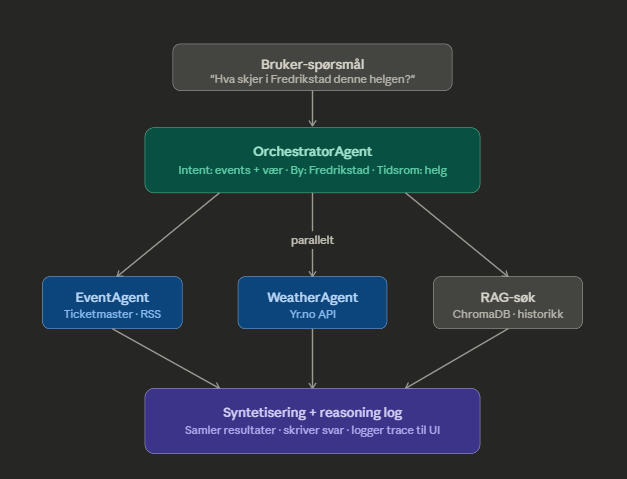
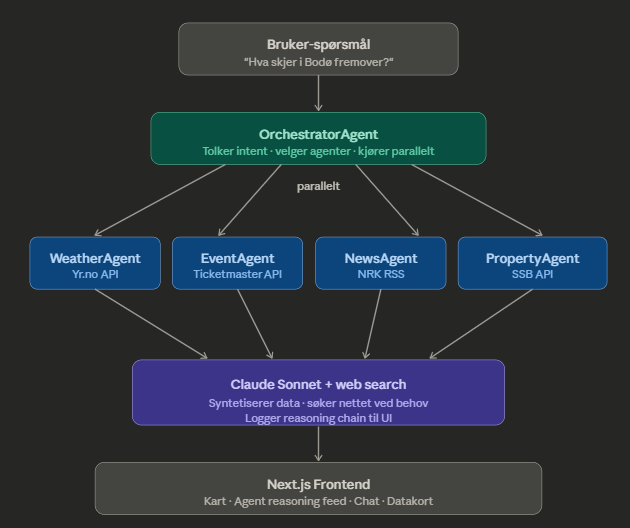
feat: all Norwegian cities, Norway map, Claude web search, security filter

diff --git a/frontend/app/page.tsx b/frontend/app/page.tsx
@@ -244,7 +244,7 @@ export default function Home() {
                       <a key={i} href={e.link} target="_blank" className="block group">
                         <div className="flex items-start gap-3">
                           <div className="w-10 text-center shrink-0">
-                            <div className="text-xs text-emerald-400 font-medium">{e.date?.slice(5)}</div>
+                            <div className="text-xs text-emerald-400 font-medium">{e.date?.slice(5).split('-').reverse().join('.')}</div>
                           </div>
                           <div>
                             <p className="text-sm text-white group-hover:text-emerald-400 transition-colors font-medium leading-snug">{e.title}</p>

diff --git a/backend/agents/orchestrator.py b/backend/agents/orchestrator.py
@@ -71,6 +71,7 @@ def synthesize(city: str, question: str, data: dict) -> str:
         "Ikke bruk andre markdown-elementer som headers eller bold. "
         "Skriv kun ren løpende tekst uten formatering. "
         "Når du nevner arrangementer eller nyheter, inkluder alltid dato og kilde/nettsted hvis tilgjengelig."
+        "For boligprisspørsmål: bruk kun de lokale SSB-dataene som er oppgitt. Ikke søk på nettet etter boligpriser. "
     )
 
     user_message = (
@@ -89,8 +90,14 @@ def synthesize(city: str, question: str, data: dict) -> str:
         f"- Hvis spørsmålet er 'oversikt', gi et helhetlig sammendrag av byen med vær, nyheter og arrangementer\n"
     )
 
+    has_events = bool(
+        data.get("events") and
+        data["events"].get("events") and
+        len(data["events"]["events"]) > 0
+    )
+    
     message = client.messages.create(
-        model="claude-sonnet-4-6",
+        model="claude-sonnet-4-6" if not has_events else "claude-haiku-4-5-20251001",
         max_tokens=1024,
         system=system,
         tools=tools,
@@ -118,7 +125,7 @@ async def orchestrate(city: str, question: str) -> dict:
     question_lower = clean.lower()
 
     run_weather  = any(w in question_lower for w in ["vær", "temperatur", "regn", "sol", "klima", "weather"])
-    run_events   = any(w in question_lower for w in ["skjer", "arrangement", "konsert", "event", "helg", "barn", "finne", "kamp"])
+    run_events = any(w in question_lower for w in ["skjer", "arrangement", "konsert", "event", "helg", "barn", "finne", "kamp", "fremover", "oversikt"])
     run_news     = any(w in question_lower for w in ["nyheter", "nyhet", "siste", "aktuelt", "news"])
     run_property = any(w in question_lower for w in ["bolig", "pris", "kjøpe", "leilighet", "hus", "property"])
 

diff --git a/backend/agents/property.py b/backend/agents/property.py
@@ -2,13 +2,7 @@ import httpx
 
 SSB_URL = "https://data.ssb.no/api/v0/no/table/07230/"
 
-SUPPORTED_CITIES = ["oslo", "fredrikstad", "moss", "sarpsborg"]
-
 async def get_property(city: str) -> dict:
-    city_lower = city.lower()
-    if city_lower not in SUPPORTED_CITIES:
-        return {"error": f"Ukjent by: {city}"}
-
     query = {
         "query": [
             {
